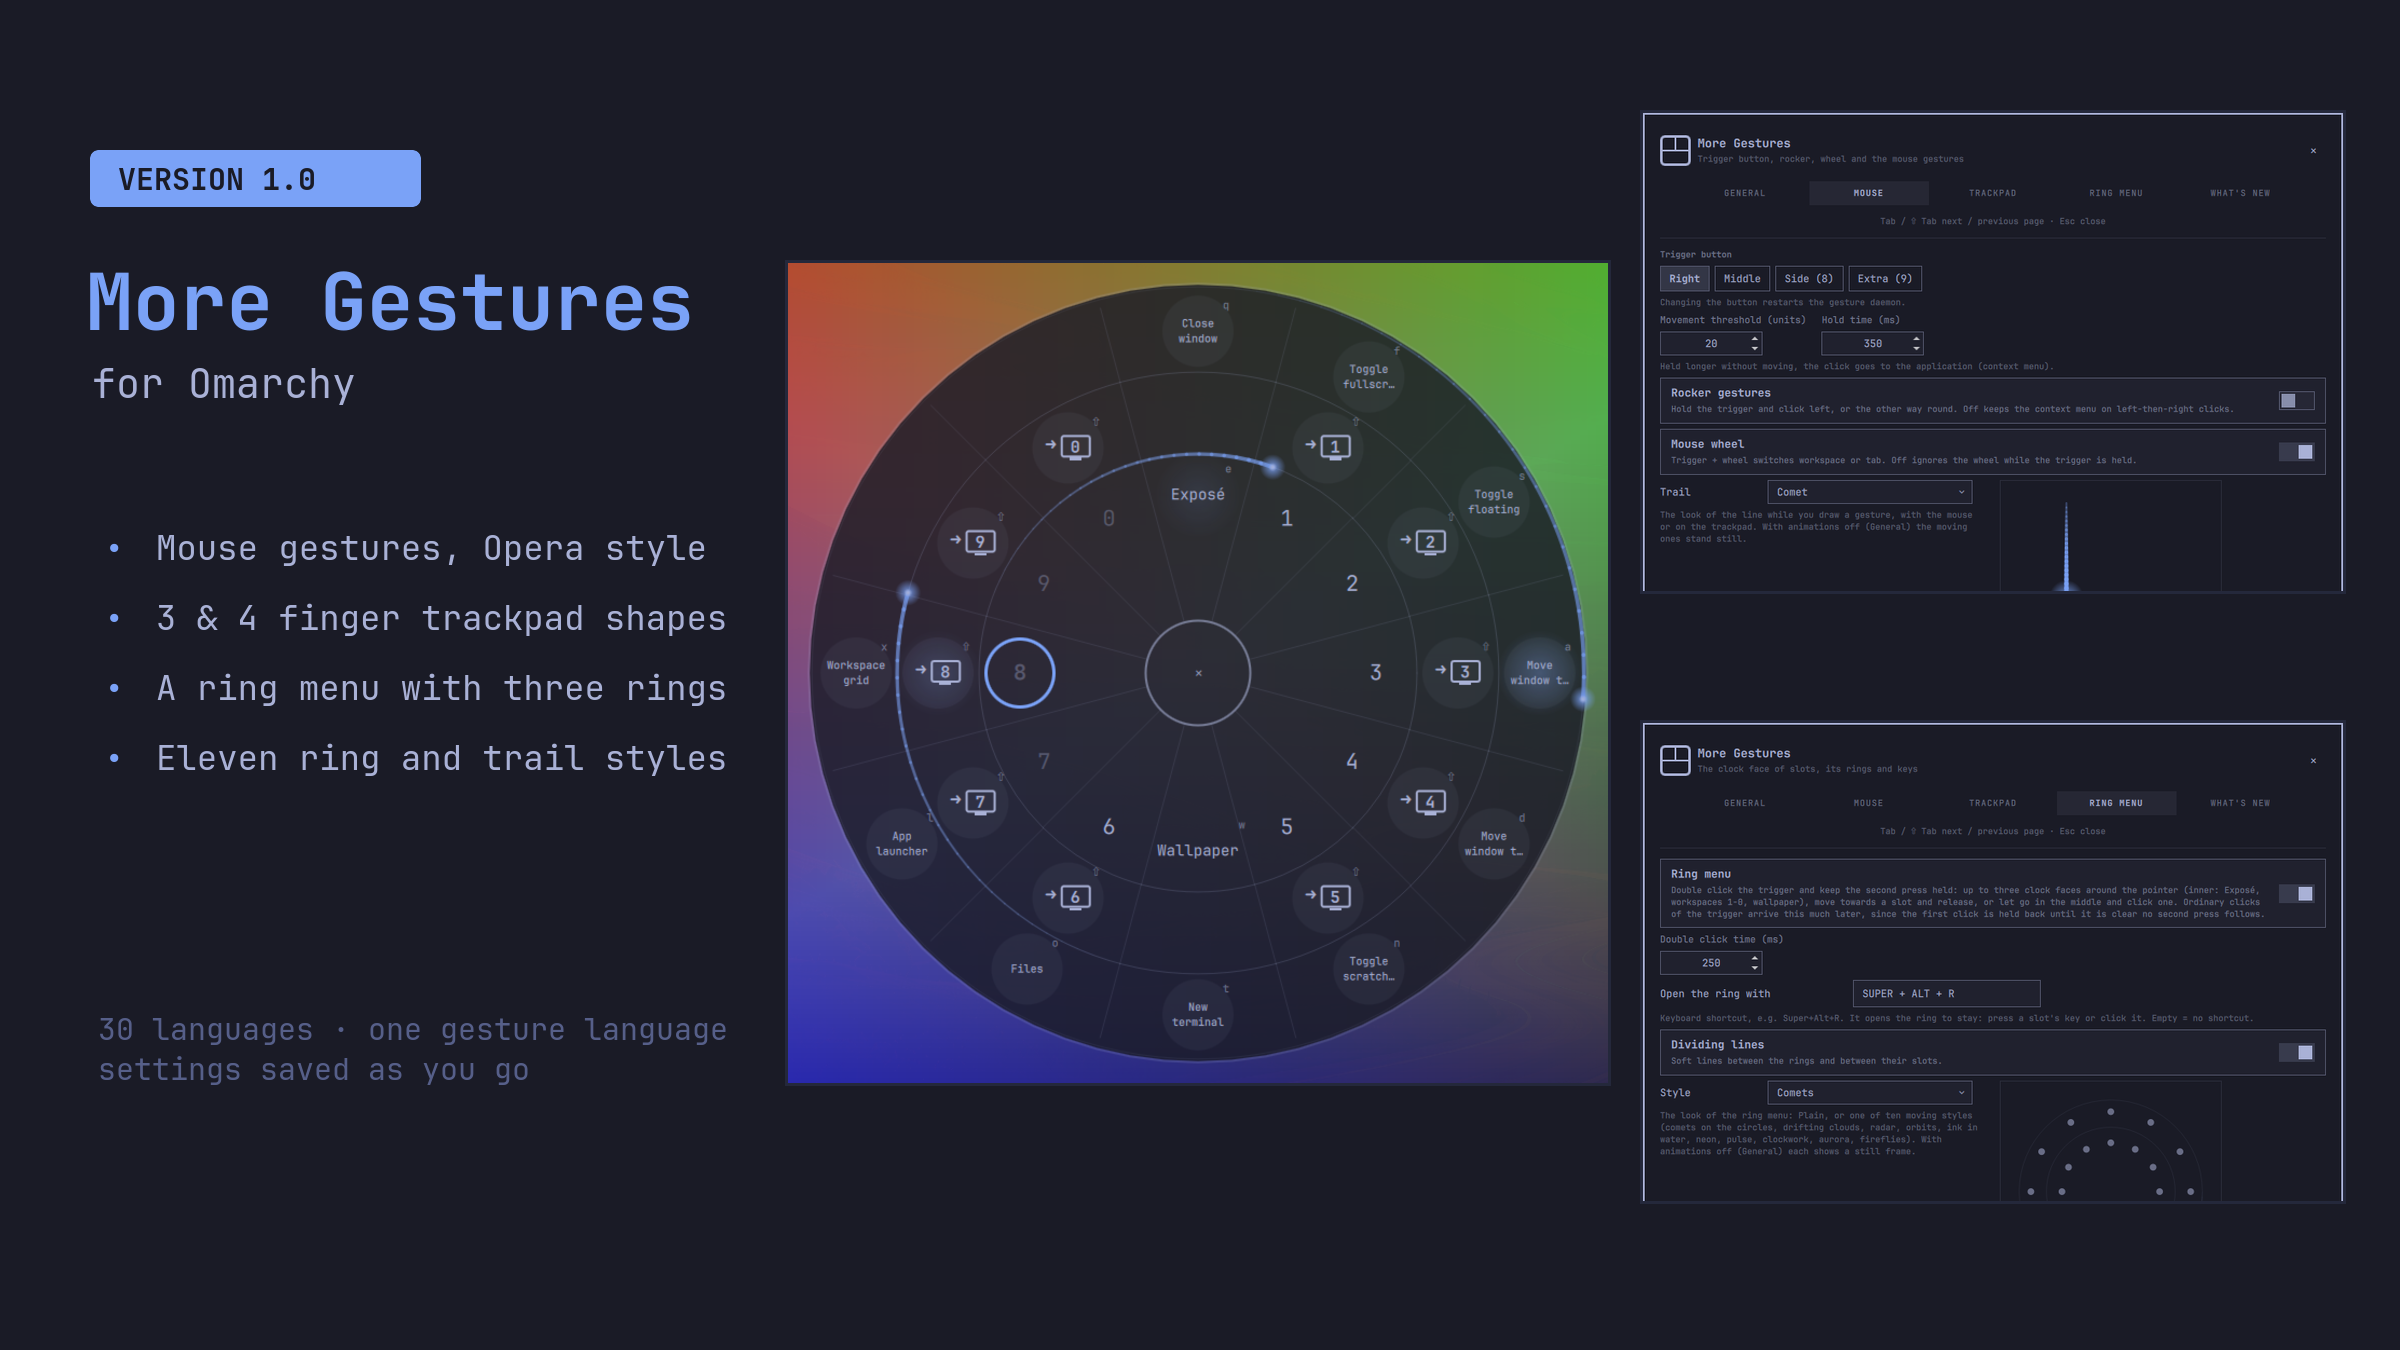
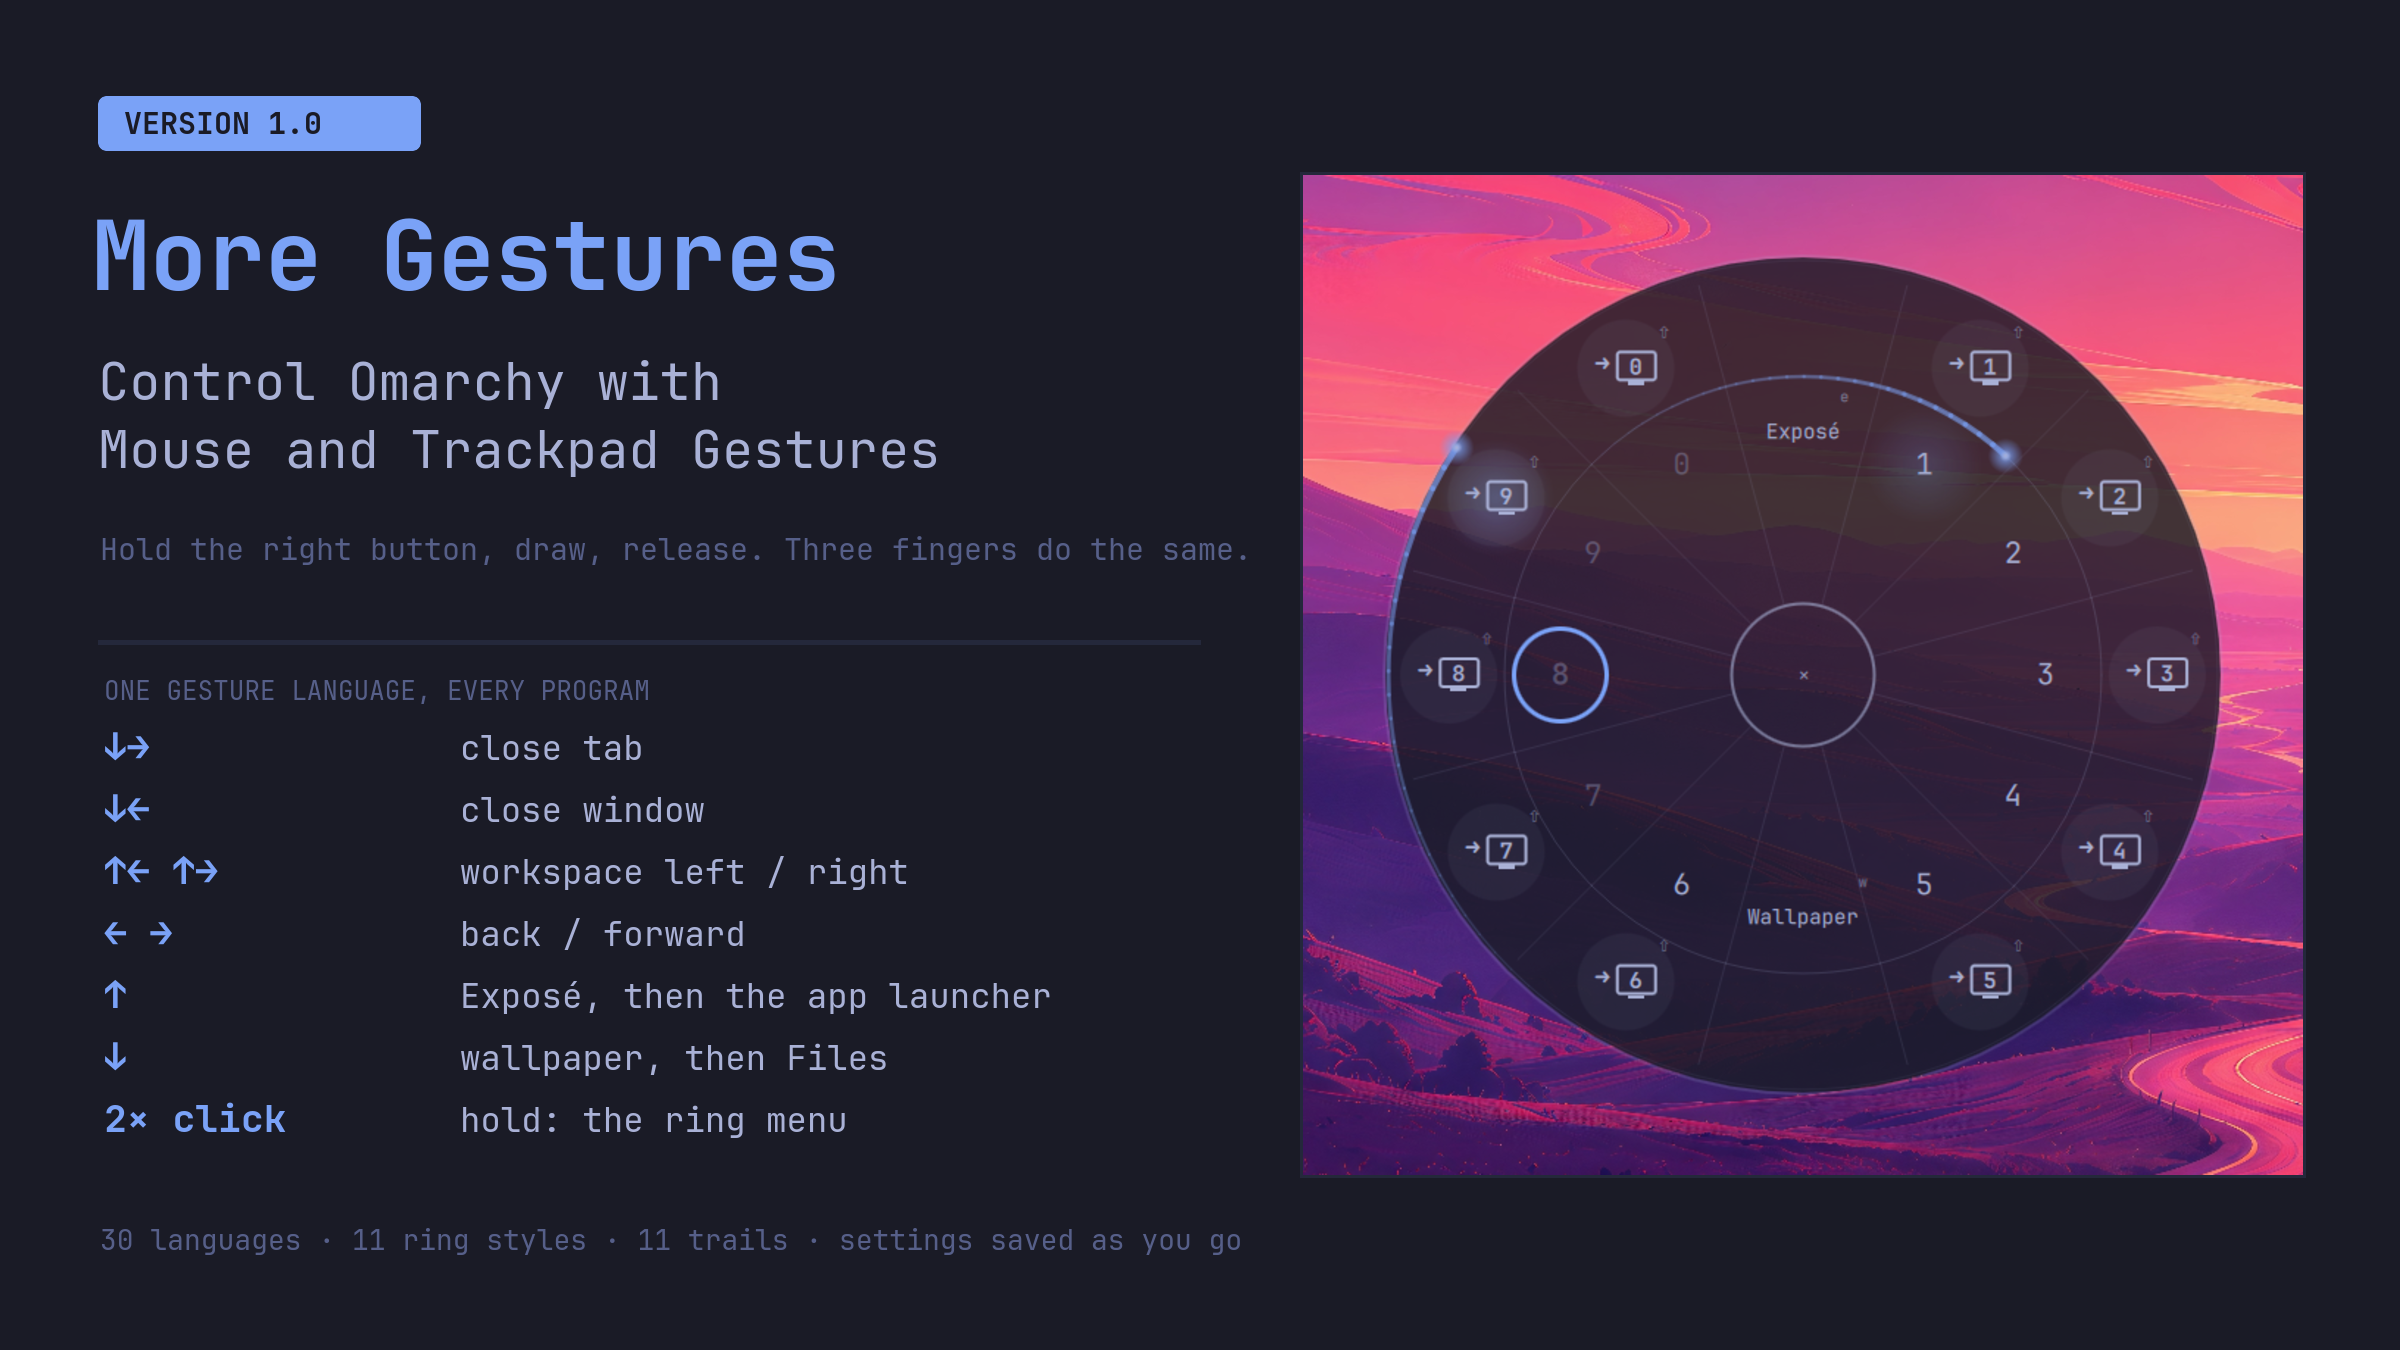
Marketplace prep: plain text everywhere, escaped notifications, new pictures
- Every Text in the plugin's QML is Text.PlainText (tests/plain-text.test.mjs);
  the status notification escapes markup (Actions.notificationText, as in mt/mw)
- preview.png with the slogan and a gesture cheat sheet; screenshots/styles.png
  and trails.png with all eleven ring and trail styles (tools/build-preview.sh)
- README: slogan, the new pictures, what it calls from Omarchy

diff --git a/Settings.qml b/Settings.qml
@@ -598,6 +598,7 @@ Item {
   // ----------------------------------------------------------------- components
 
   component Label: Text {
+    textFormat: Text.PlainText
     color: root.muted
     font.family: root.fontFamily
     font.pixelSize: Style.font.caption
@@ -605,6 +606,7 @@ Item {
   }
 
   component Hint: Text {
+    textFormat: Text.PlainText
     color: Qt.darker(root.foreground, 1.8)
     font.family: root.fontFamily
     font.pixelSize: Style.font.caption
@@ -644,6 +646,7 @@ Item {
         radius: Style.cornerRadius
         color: Util.alpha(root.foreground, 0.06)
         Text {
+          textFormat: Text.PlainText
           id: commandText
           anchors.centerIn: parent
           text: root.exposeInstallCommand
@@ -774,6 +777,7 @@ Item {
                 spacing: Style.space(2)
                 anchors.verticalCenter: parent.verticalCenter
                 Text {
+                  textFormat: Text.PlainText
                   text: root.tr("title")
                   color: root.foreground
                   font.family: root.fontFamily
@@ -814,6 +818,7 @@ Item {
                 color: selected || pageMouse.containsMouse ? Style.hoverFillFor(root.foreground, Color.accent) : "transparent"
 
                 Text {
+                  textFormat: Text.PlainText
                   id: pageLabel
                   anchors.centerIn: parent
                   text: root.tr("page_" + parent.modelData).toLocaleUpperCase()
@@ -895,6 +900,7 @@ Item {
                 Row {
                   spacing: Style.spacing.md
                   Text {
+                    textFormat: Text.PlainText
                     width: Style.space(220)
                     anchors.verticalCenter: parent.verticalCenter
                     text: root.tr("language")
@@ -990,6 +996,7 @@ Item {
                     required property var modelData
                     spacing: Style.spacing.md
                     Text {
+                      textFormat: Text.PlainText
                       width: Style.space(150)
                       anchors.verticalCenter: parent.verticalCenter
                       text: root.tr("bar_" + modelData.key)
@@ -1120,6 +1127,7 @@ Item {
                   }
                 }
                 Text {
+                  textFormat: Text.PlainText
                   visible: transfer.status !== null
                   width: parent.width
                   text: transfer.status ? root.trp(transfer.status.key, { path: transfer.shown(transfer.status.path),
@@ -1210,6 +1218,7 @@ Item {
                     Row {
                       spacing: Style.spacing.md
                       Text {
+                        textFormat: Text.PlainText
                         anchors.verticalCenter: parent.verticalCenter
                         width: Style.space(120)
                         text: root.tr("trailStyle")
@@ -1393,6 +1402,7 @@ Item {
                 Row {
                   spacing: Style.spacing.md
                   Text {
+                    textFormat: Text.PlainText
                     width: Style.space(220)
                     anchors.verticalCenter: parent.verticalCenter
                     text: root.tr("hotkey")
@@ -1432,6 +1442,7 @@ Item {
                     Row {
                       spacing: Style.spacing.md
                       Text {
+                        textFormat: Text.PlainText
                         anchors.verticalCenter: parent.verticalCenter
                         width: Style.space(120)
                         text: root.tr("ringStyle")
@@ -1545,6 +1556,7 @@ Item {
                             required property int index
                             spacing: Style.spacing.md
                             Text {
+                              textFormat: Text.PlainText
                               width: Style.space(70)
                               anchors.verticalCenter: parent.verticalCenter
                               text: root.slotName(ringBlock.index, index, ringBlock.modelData.count)
@@ -1638,6 +1650,7 @@ Item {
                     height: parent.height
                     readonly property bool isTap: Actions.tapDots(modelData.gesture).length > 0
                     Text {
+                      textFormat: Text.PlainText
                       visible: !parent.isTap
                       anchors.verticalCenter: parent.verticalCenter
                       text: root.gestureText(modelData.gesture)
@@ -1656,6 +1669,7 @@ Item {
                     }
                   }
                   Text {
+                    textFormat: Text.PlainText
                     anchors.left: gestureCell.right
                     anchors.right: rowButtons.left
                     anchors.rightMargin: Style.spacing.md
@@ -1750,6 +1764,7 @@ Item {
                       onClicked: root.recordingGesture ? root.stopRecord() : root.startRecord()
                     }
                     Text {
+                      textFormat: Text.PlainText
                       anchors.verticalCenter: parent.verticalCenter
                       width: Math.max(0, editor.width - x)
                       text: root.recordingGesture ? root.tr("recordGestureNow") : root.recordInfo
@@ -1821,6 +1836,7 @@ Item {
                     }
                     SmallButton { text: root.tr("clear"); onClicked: root.editGesture = "" }
                     Text {
+                      textFormat: Text.PlainText
                       anchors.verticalCenter: parent.verticalCenter
                       leftPadding: Style.spacing.lg
                       text: root.editGesture === "" ? root.tr("gestureEmpty") : root.gestureText(root.editGesture)
@@ -1866,6 +1882,7 @@ Item {
                         required property int index
                         spacing: Style.spacing.sm
                         Text {
+                          textFormat: Text.PlainText
                           anchors.verticalCenter: parent.verticalCenter
                           width: Style.space(28)
                           text: (index + 1) + "."
@@ -1944,6 +1961,7 @@ Item {
                   }
 
                   Text {
+                    textFormat: Text.PlainText
                     width: parent.width
                     visible: root.editError !== ""
                     text: root.editError

diff --git a/RingOverlay.qml b/RingOverlay.qml
@@ -397,6 +397,7 @@ Item {
       border.width: Math.max(1, Style.space(2))
       border.color: Util.alpha(Color.foreground, root.selected < 0 ? 0.6 : 0.25)
       Text {
+        textFormat: Text.PlainText
         anchors.centerIn: parent
         text: "×"
         color: Util.alpha(Color.foreground, root.selected < 0 ? 0.8 : 0.35)
@@ -408,6 +409,7 @@ Item {
     // Full name of the slot under the pointer: chips on the outer rings are small and
     // only show a shortened name.
     Text {
+      textFormat: Text.PlainText
       visible: root.selected >= 0
       width: root.deadzone * 4
       x: root.cx - width / 2
@@ -446,6 +448,7 @@ Item {
         border.color: Color.accent
         // The key, small in the corner, unless the label already says it (Ring.keyHint).
         Text {
+          textFormat: Text.PlainText
           readonly property string hint: Ring.keyHint(modelData.key, modelData.action)
           visible: hint !== ""
           anchors.right: parent.right
@@ -466,6 +469,7 @@ Item {
           spacing: Math.round(root.slotSize * 0.04)
           readonly property color ink: parent.hot ? Color.background : Color.foreground
           Text {
+            textFormat: Text.PlainText
             anchors.verticalCenter: parent.verticalCenter
             anchors.verticalCenterOffset: -Math.round(root.slotSize * 0.04)
             text: "➜"
@@ -484,6 +488,7 @@ Item {
               border.width: Math.max(1.5, root.slotSize * 0.035)
               border.color: moveIcon.ink
               Text {
+                textFormat: Text.PlainText
                 anchors.centerIn: parent
                 text: Ring.workspaceLabel(moveIcon.parent.moveTo)
                 color: moveIcon.ink
@@ -501,6 +506,7 @@ Item {
           }
         }
         Text {
+          textFormat: Text.PlainText
           id: label
           visible: parent.moveTo === 0
           anchors.centerIn: parent

diff --git a/ChangesPage.qml b/ChangesPage.qml
@@ -69,6 +69,7 @@ Column {
   }
 
   Text {
+    textFormat: Text.PlainText
     visible: changesPage.page.lang !== "en"
     width: parent.width
     text: changesPage.page.tr("changesEnglishNote")
@@ -79,6 +80,7 @@ Column {
   }
 
   Text {
+    textFormat: Text.PlainText
     visible: changesPage.loaded && changesPage.sections.length === 0
     width: parent.width
     text: changesPage.page.tr("changesNone")
@@ -115,6 +117,7 @@ Column {
           height: Math.max(versionTitle.implicitHeight, installedTag.implicitHeight)
 
           Text {
+            textFormat: Text.PlainText
             id: versionTitle
             anchors.left: parent.left
             anchors.right: installedTag.visible ? installedTag.left : parent.right
@@ -129,6 +132,7 @@ Column {
           }
 
           Text {
+            textFormat: Text.PlainText
             id: installedTag
             visible: versionCard.installed
             anchors.right: parent.right
@@ -153,6 +157,7 @@ Column {
             topPadding: group ? Style.space(4) : 0
 
             Text {
+              textFormat: Text.PlainText
               visible: change.modelData.title !== "" || change.group
               width: parent.width
               text: change.group ? change.modelData.text.toLocaleUpperCase() : change.modelData.title
@@ -164,6 +169,7 @@ Column {
               wrapMode: Text.WordWrap
             }
             Text {
+              textFormat: Text.PlainText
               visible: change.modelData.text !== "" && !change.group
               width: parent.width
               text: change.modelData.text

diff --git a/Actions.js b/Actions.js
@@ -579,6 +579,13 @@ function actionName(raw, l) {
   return name ? name + " (" + text + ")" : text
 }
 
+// Text for notify-send: its body is markup, so a label like "<b>" or "&" would be
+// interpreted. Swapped for look-alikes, as in More Time and More Weather.
+function notificationText(text) {
+  return String(text === undefined || text === null ? "" : text)
+    .replace(/&/g, "\uff06").replace(/</g, "\u2039").replace(/>/g, "\u203a")
+}
+
 // ----------------------------------------------------------------- indicator
 
 var INDICATOR_MODES = ["off", "minimal", "full"]
@@ -816,7 +823,7 @@ if (typeof module !== "undefined") module.exports = {
   parseModifiers: parseModifiers, parseCombo: parseCombo,
   validateAction: validateAction, buildCommand: buildCommand, internalOf: internalOf, keysLua: keysLua,
   EXPOSE_AVAILABLE_LUA: EXPOSE_AVAILABLE_LUA, exposeAvailable: exposeAvailable,
-  dispatchName: dispatchName,
+  dispatchName: dispatchName, notificationText: notificationText,
   recordedGesture: recordedGesture, fitsGesture: fitsGesture, SWIPE_ACTION: SWIPE_ACTION, tapDots: tapDots,
   actionName: actionName, keysText: keysText,
   INDICATOR_MODES: INDICATOR_MODES, normalizeIndicator: normalizeIndicator,

diff --git a/Service.qml b/Service.qml
@@ -411,7 +411,7 @@ Item {
       ]
       if (root.lastGesture) lines.push(tr("notifyLast") + ": " + root.lastGesture + (root.lastAction ? " → " + root.lastAction : ""))
       if (root.passWanted) lines.push(tr("notifyPaused"))
-      Quickshell.execDetached(["omarchy-notification-send", title, lines.join("\n")])
+      Quickshell.execDetached(["omarchy-notification-send", Actions.notificationText(title), Actions.notificationText(lines.join("\n"))])
       return "ok"
     }
     // Opens the settings overlay (same as the launcher entry from bin/launcher-entry).

diff --git a/README.md b/README.md
@@ -1,5 +1,7 @@
 # More Gestures
 
+**Control Omarchy with Mouse and Trackpad Gestures.**
+
 Opera-style mouse gestures for [Omarchy](https://omarchy.org): hold the right
 button, draw a line, release. The same shapes work with three fingers on the
 trackpad, four fingers are the system level, and a ring menu around the
@@ -131,6 +133,10 @@ trail under Mouse › Trail. With animations off every style is a still frame.
 
 ## Screenshots
 
+![Eleven ring styles](screenshots/styles.png)
+
+![A trail for every gesture](screenshots/trails.png)
+
 | | |
 |---|---|
 | ![Ring menu](screenshots/ring.png) | ![General](screenshots/settings-general.png) |
@@ -172,6 +178,9 @@ under General).
 
 - Optional: the Hyprexpo plugin (hyprpm) for 4-finger pinch out; without it
   that gesture opens Exposé, else the launcher.
+- Everything else it calls ships with Omarchy: `hyprctl`, `omarchy-shell`,
+  `omarchy-menu`, `omarchy-launch-terminal`, Nautilus for Files and `wl-copy`.
+  Commands you bind to a gesture yourself run through `bash`.
 
 ## Installation
 
